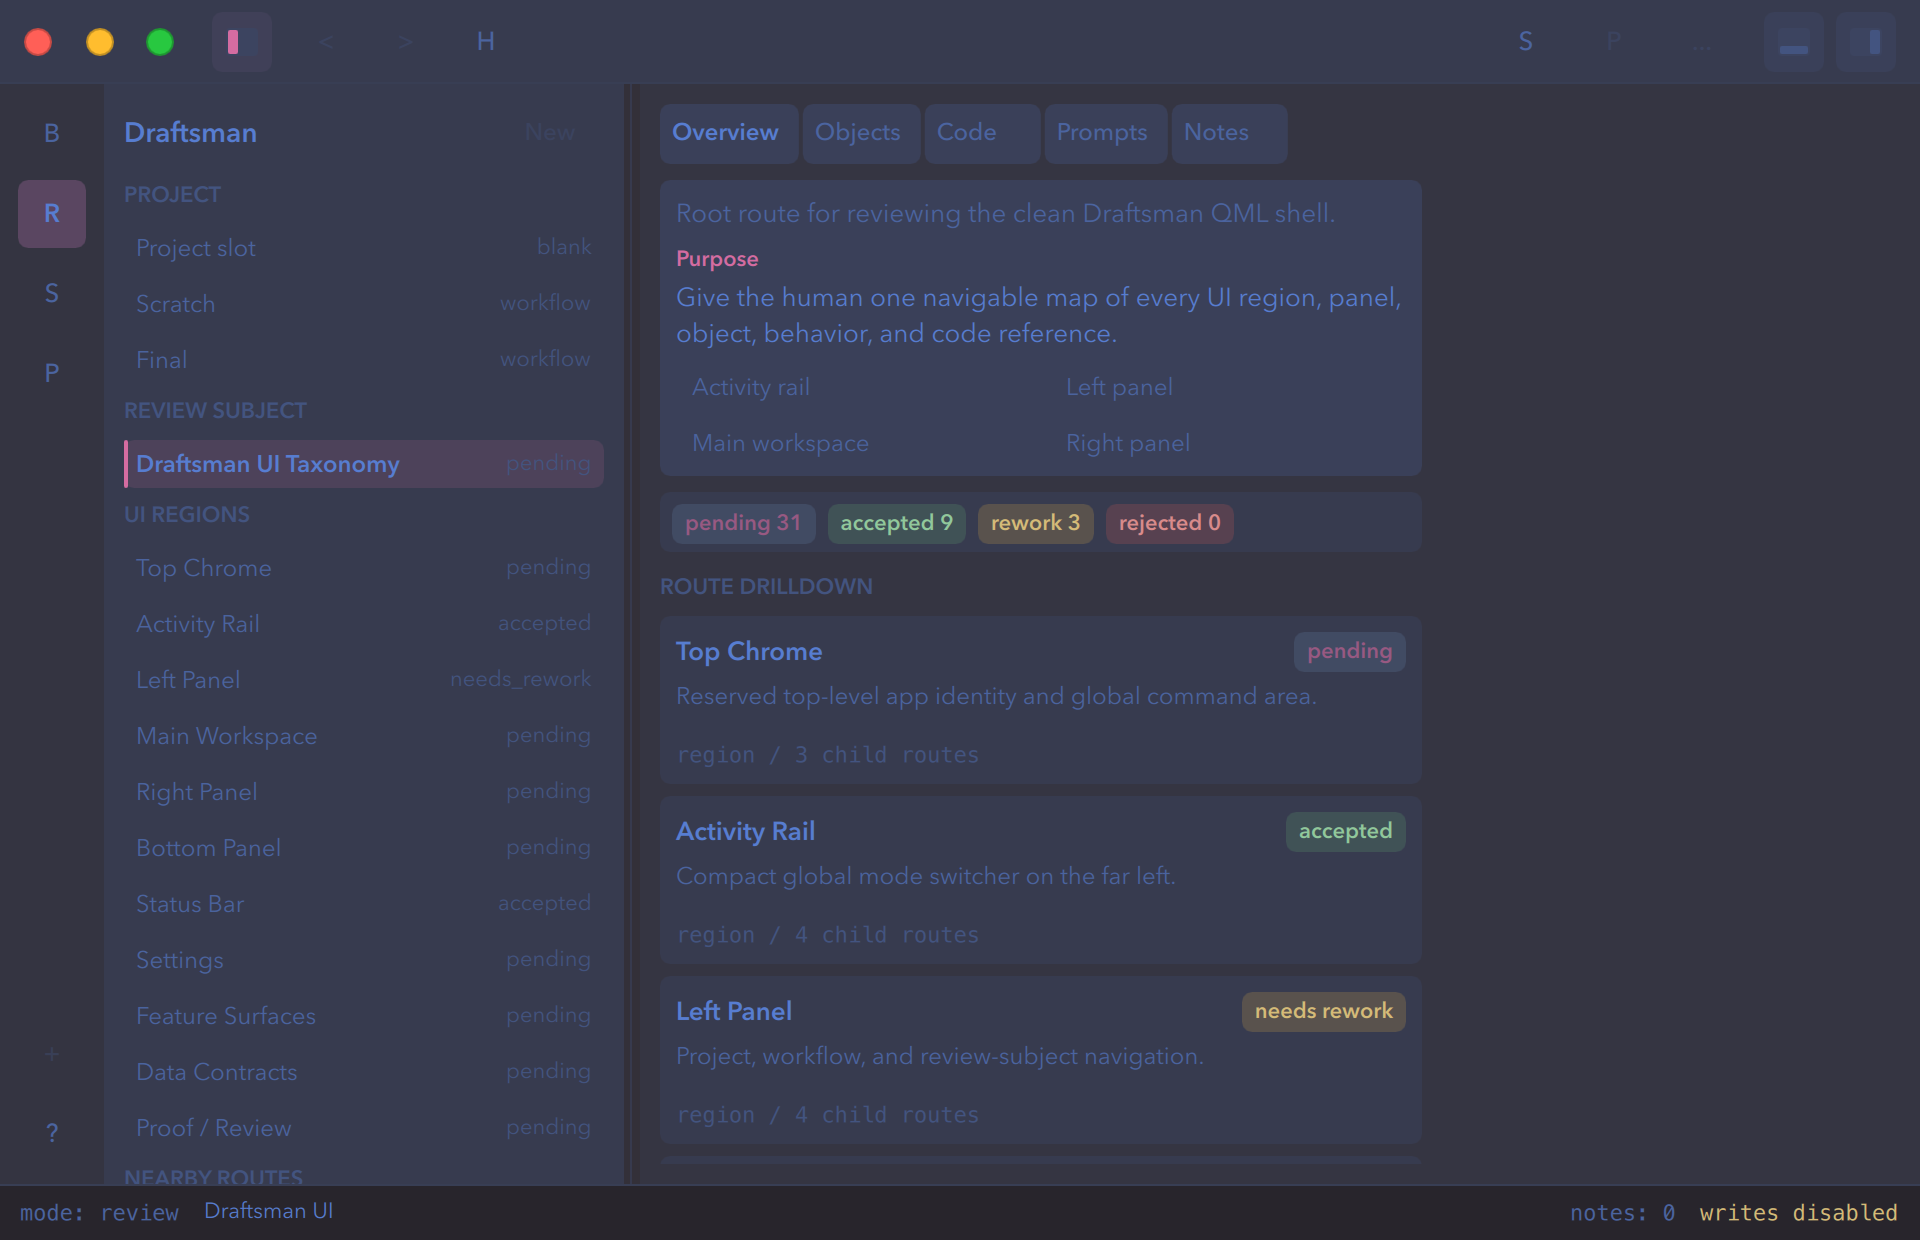
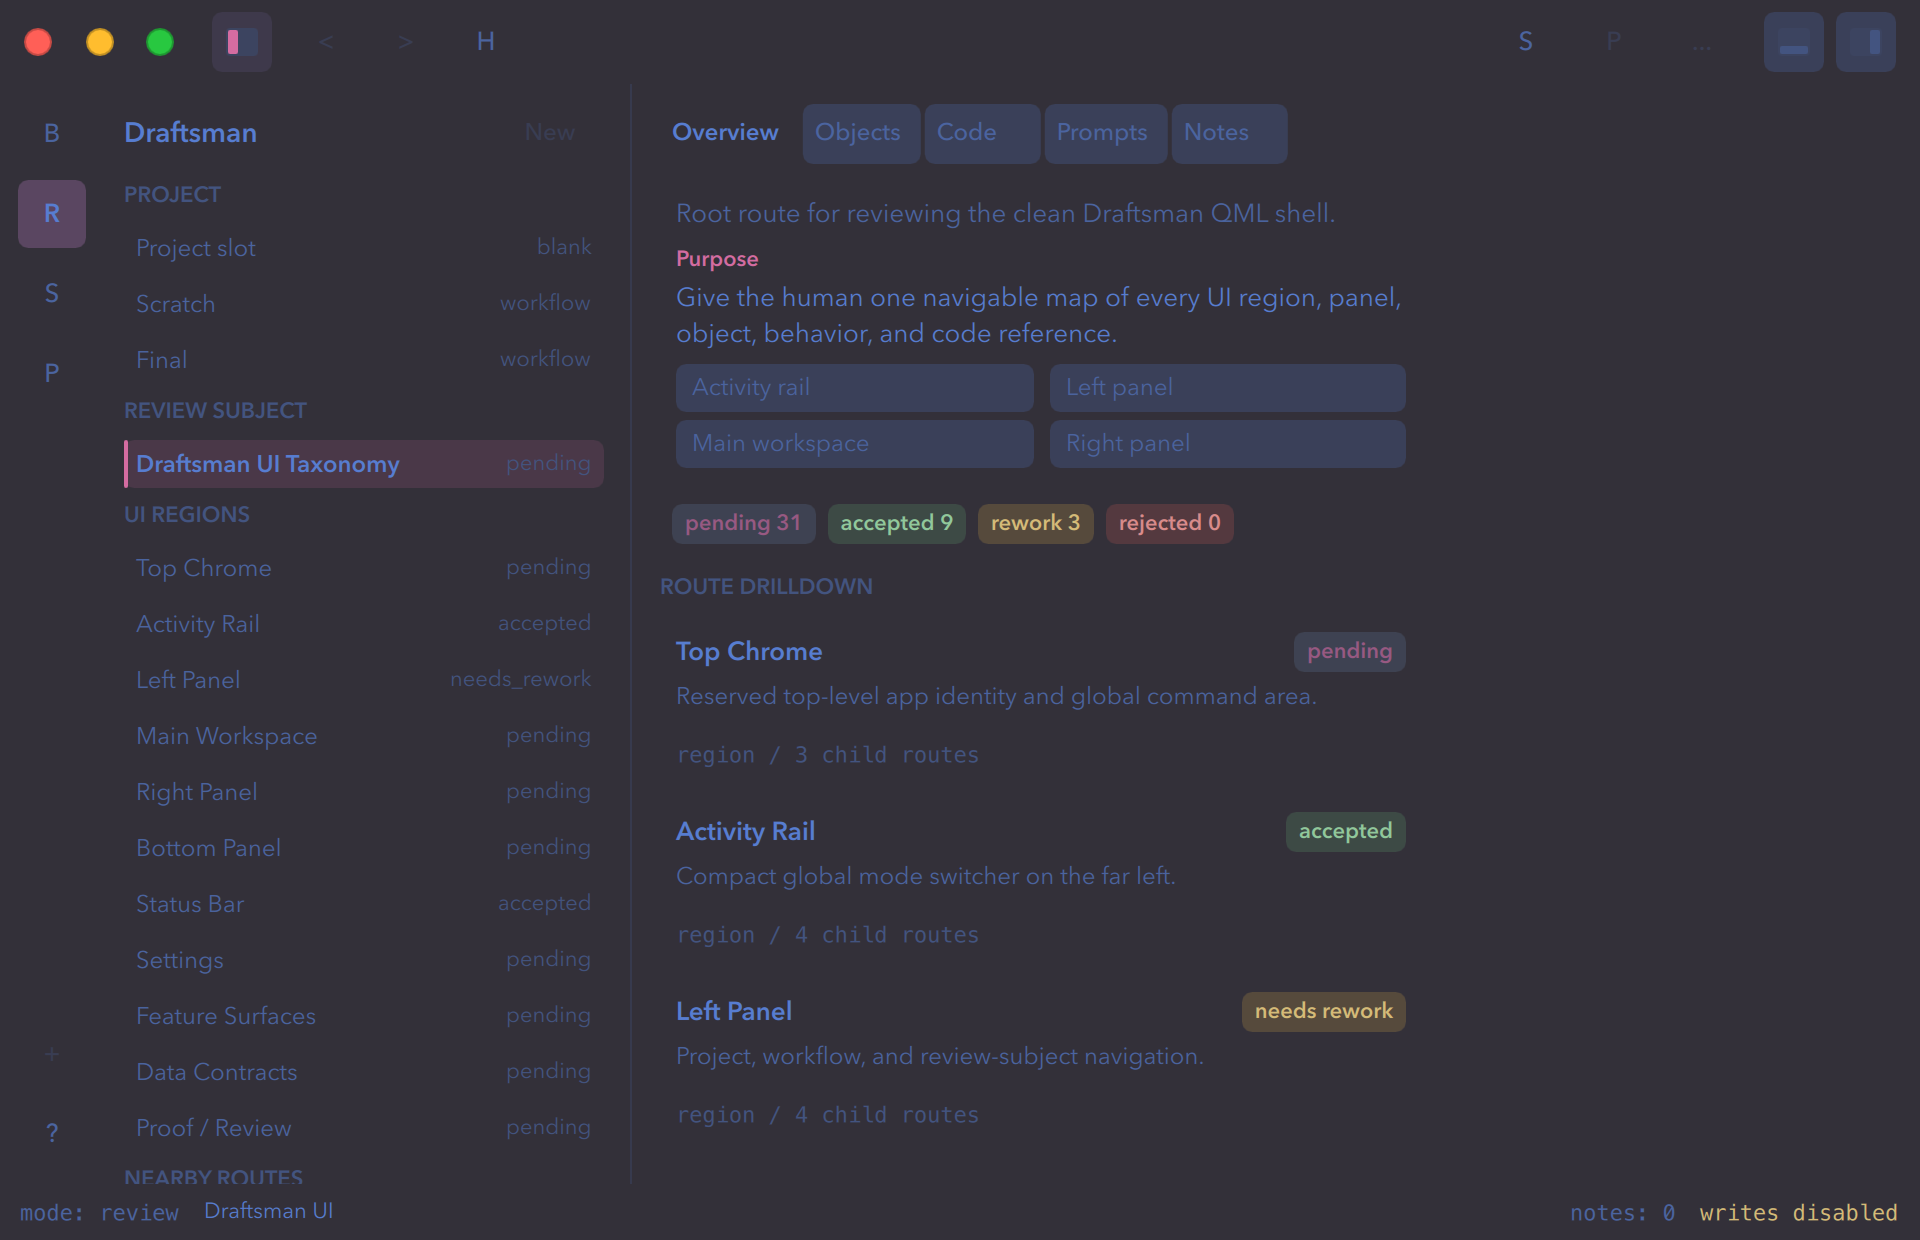
Use base color for shell surfaces

Changed region(s): [[0.3438, 0.0613, 0.75, 0.3984]]

diff --git a/src/style/UiStyle.qml b/src/style/UiStyle.qml
@@ -22,14 +22,14 @@ QtObject {
     property color colorSurface: "#171d24"
     property color colorSurfaceRaised: "#202832"
     property color colorWindow: colorBase
-    property color colorRail: "#121920"
-    property color colorPanel: colorSurface
-    property color colorPanelAlt: "#1b232d"
-    property color colorPanelRaised: colorSurfaceRaised
-    property color colorWorkspace: "#111821"
+    property color colorRail: colorBase
+    property color colorPanel: colorBase
+    property color colorPanelAlt: colorBase
+    property color colorPanelRaised: colorBase
+    property color colorWorkspace: colorBase
     property color colorWorkspaceBody: "#18222d"
-    property color colorBottomPanel: "#121920"
-    property color colorStatusBar: "#0c1116"
+    property color colorBottomPanel: colorBase
+    property color colorStatusBar: colorBase
     property color colorControl: "#202a35"
     property color colorControlHover: "#283542"
     property color colorSelected: "#304052"
@@ -132,14 +132,14 @@ QtObject {
         colorSurface = surface
         colorSurfaceRaised = mix(surface, text, 0.08)
         colorWindow = base
-        colorRail = mix(base, surface, 0.35)
-        colorPanel = surface
-        colorPanelAlt = mix(surface, text, 0.04)
-        colorPanelRaised = colorSurfaceRaised
-        colorWorkspace = mix(base, surface, 0.42)
+        colorRail = base
+        colorPanel = base
+        colorPanelAlt = base
+        colorPanelRaised = base
+        colorWorkspace = base
         colorWorkspaceBody = mix(surface, text, 0.06)
-        colorBottomPanel = mix(base, surface, 0.32)
-        colorStatusBar = mix(base, "#000000", 0.22)
+        colorBottomPanel = base
+        colorStatusBar = base
         colorControl = mix(surface, text, 0.08)
         colorControlHover = mix(surface, text, 0.10)
         colorSelected = mix(surface, accent, 0.22)
